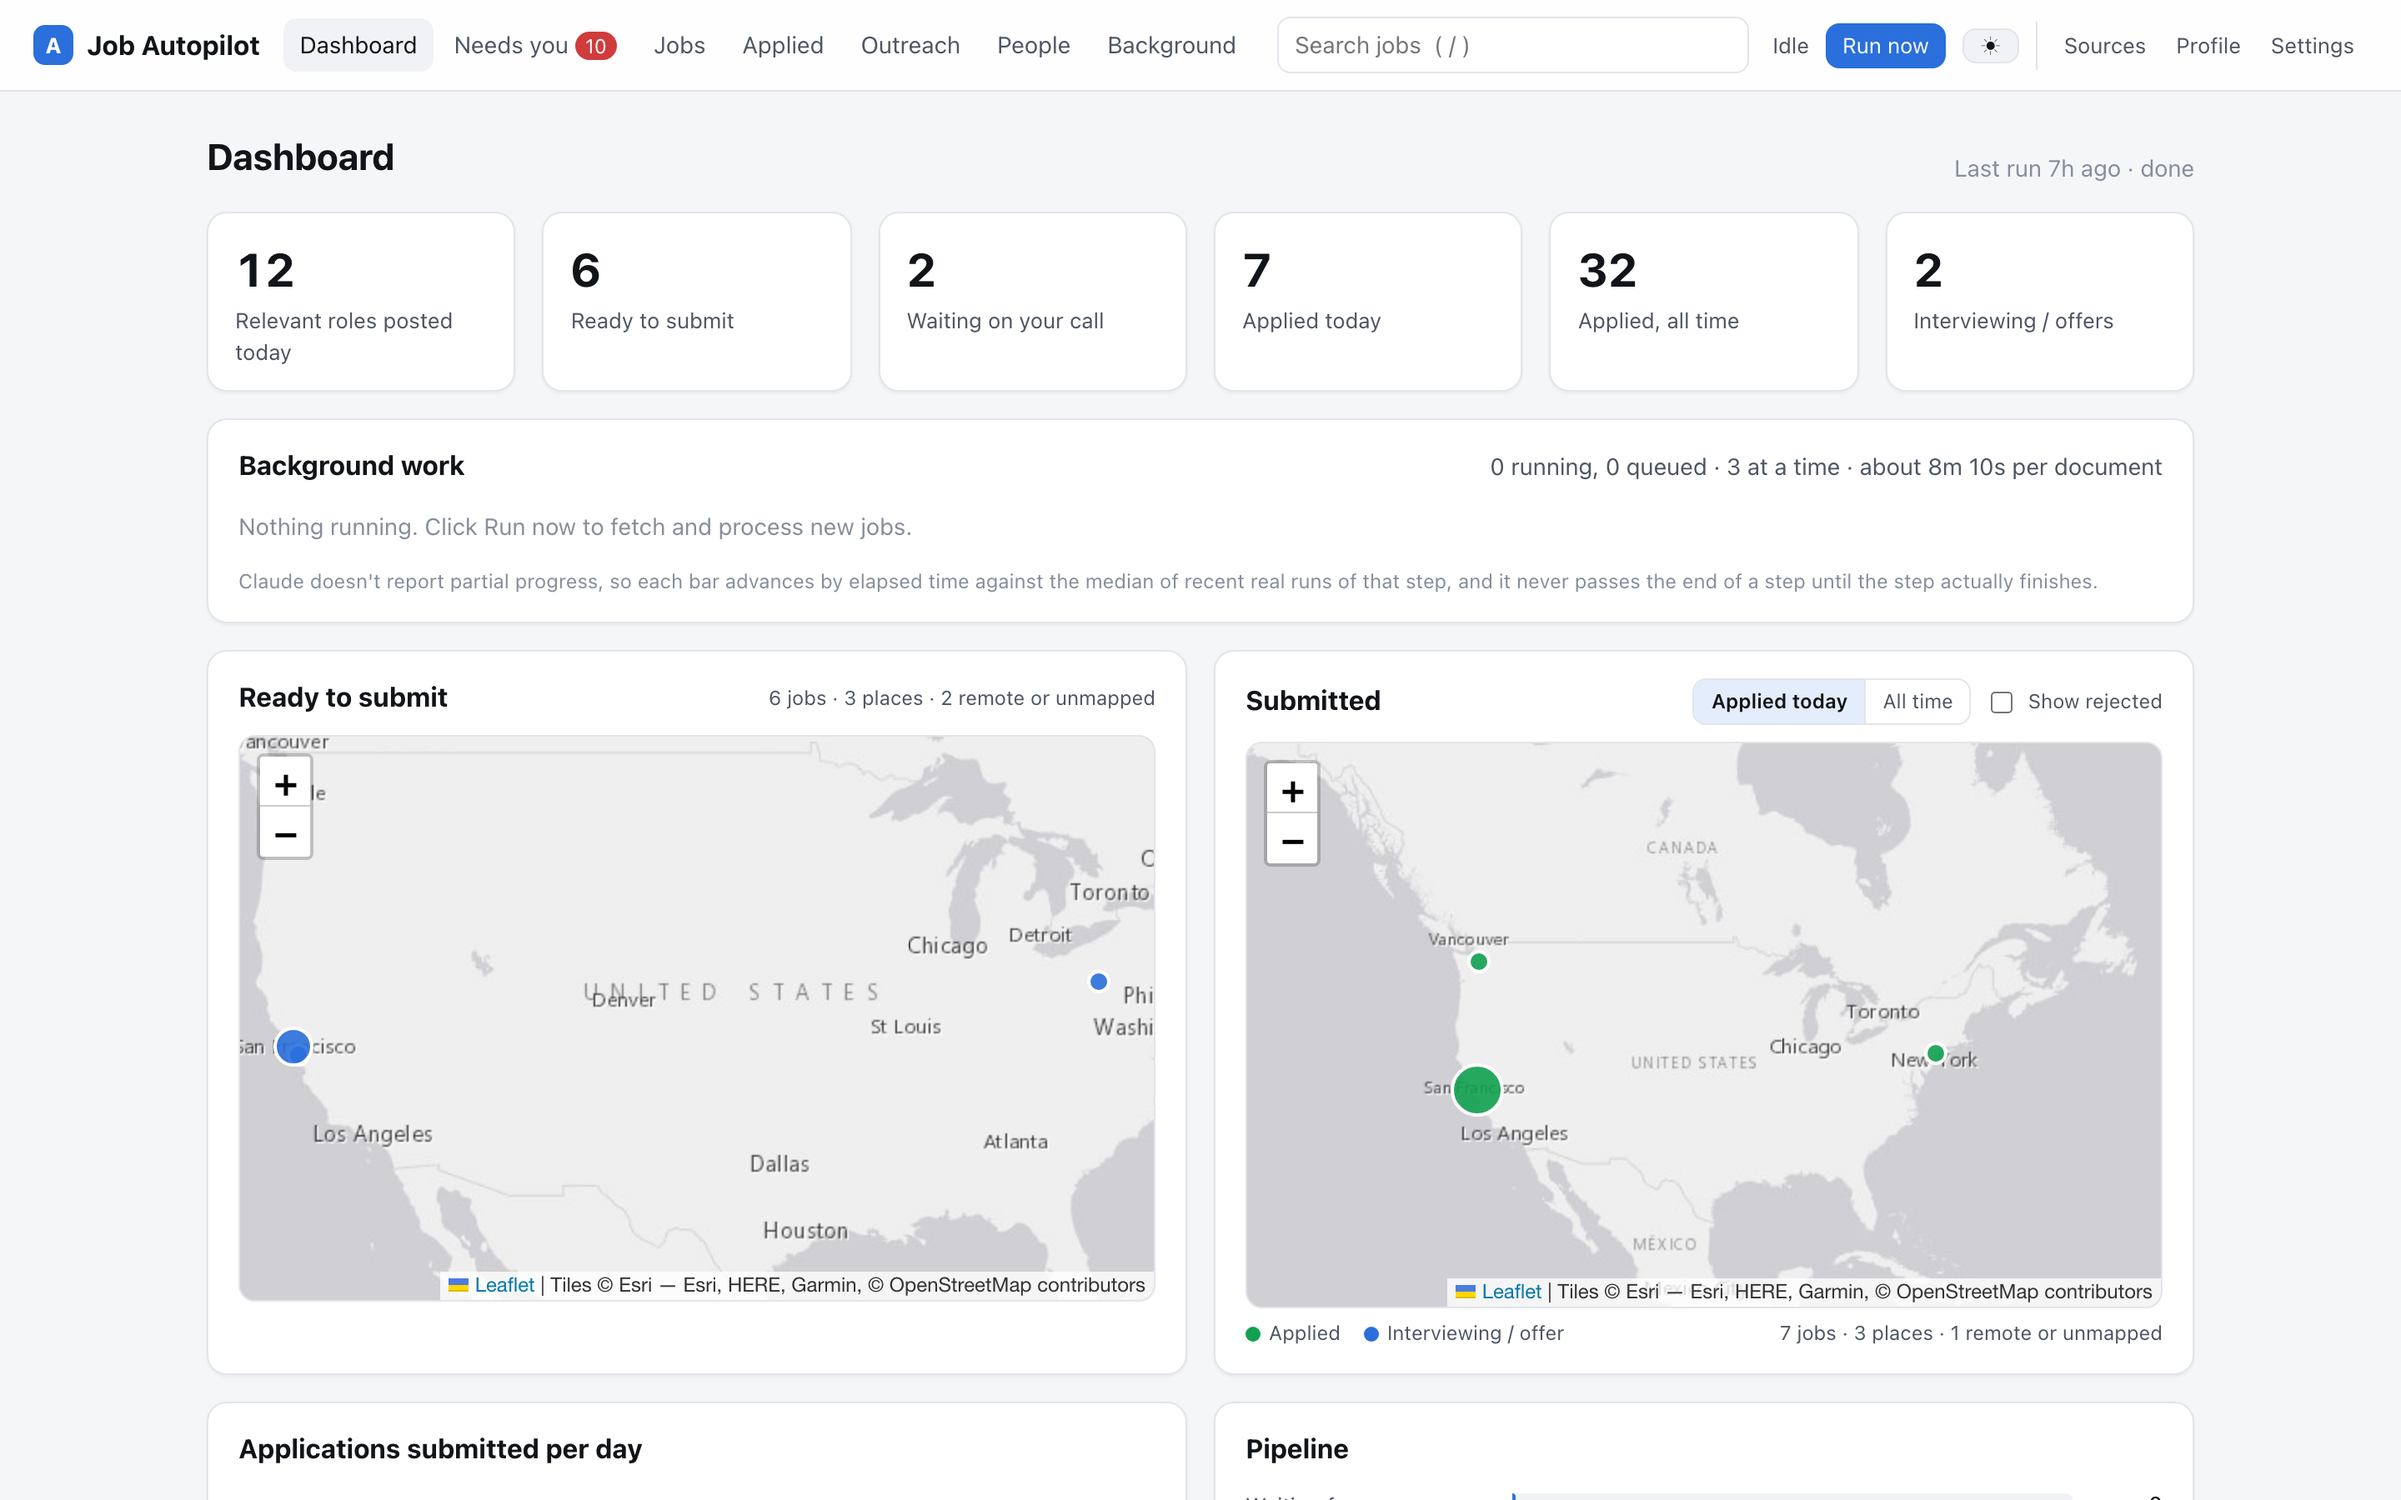
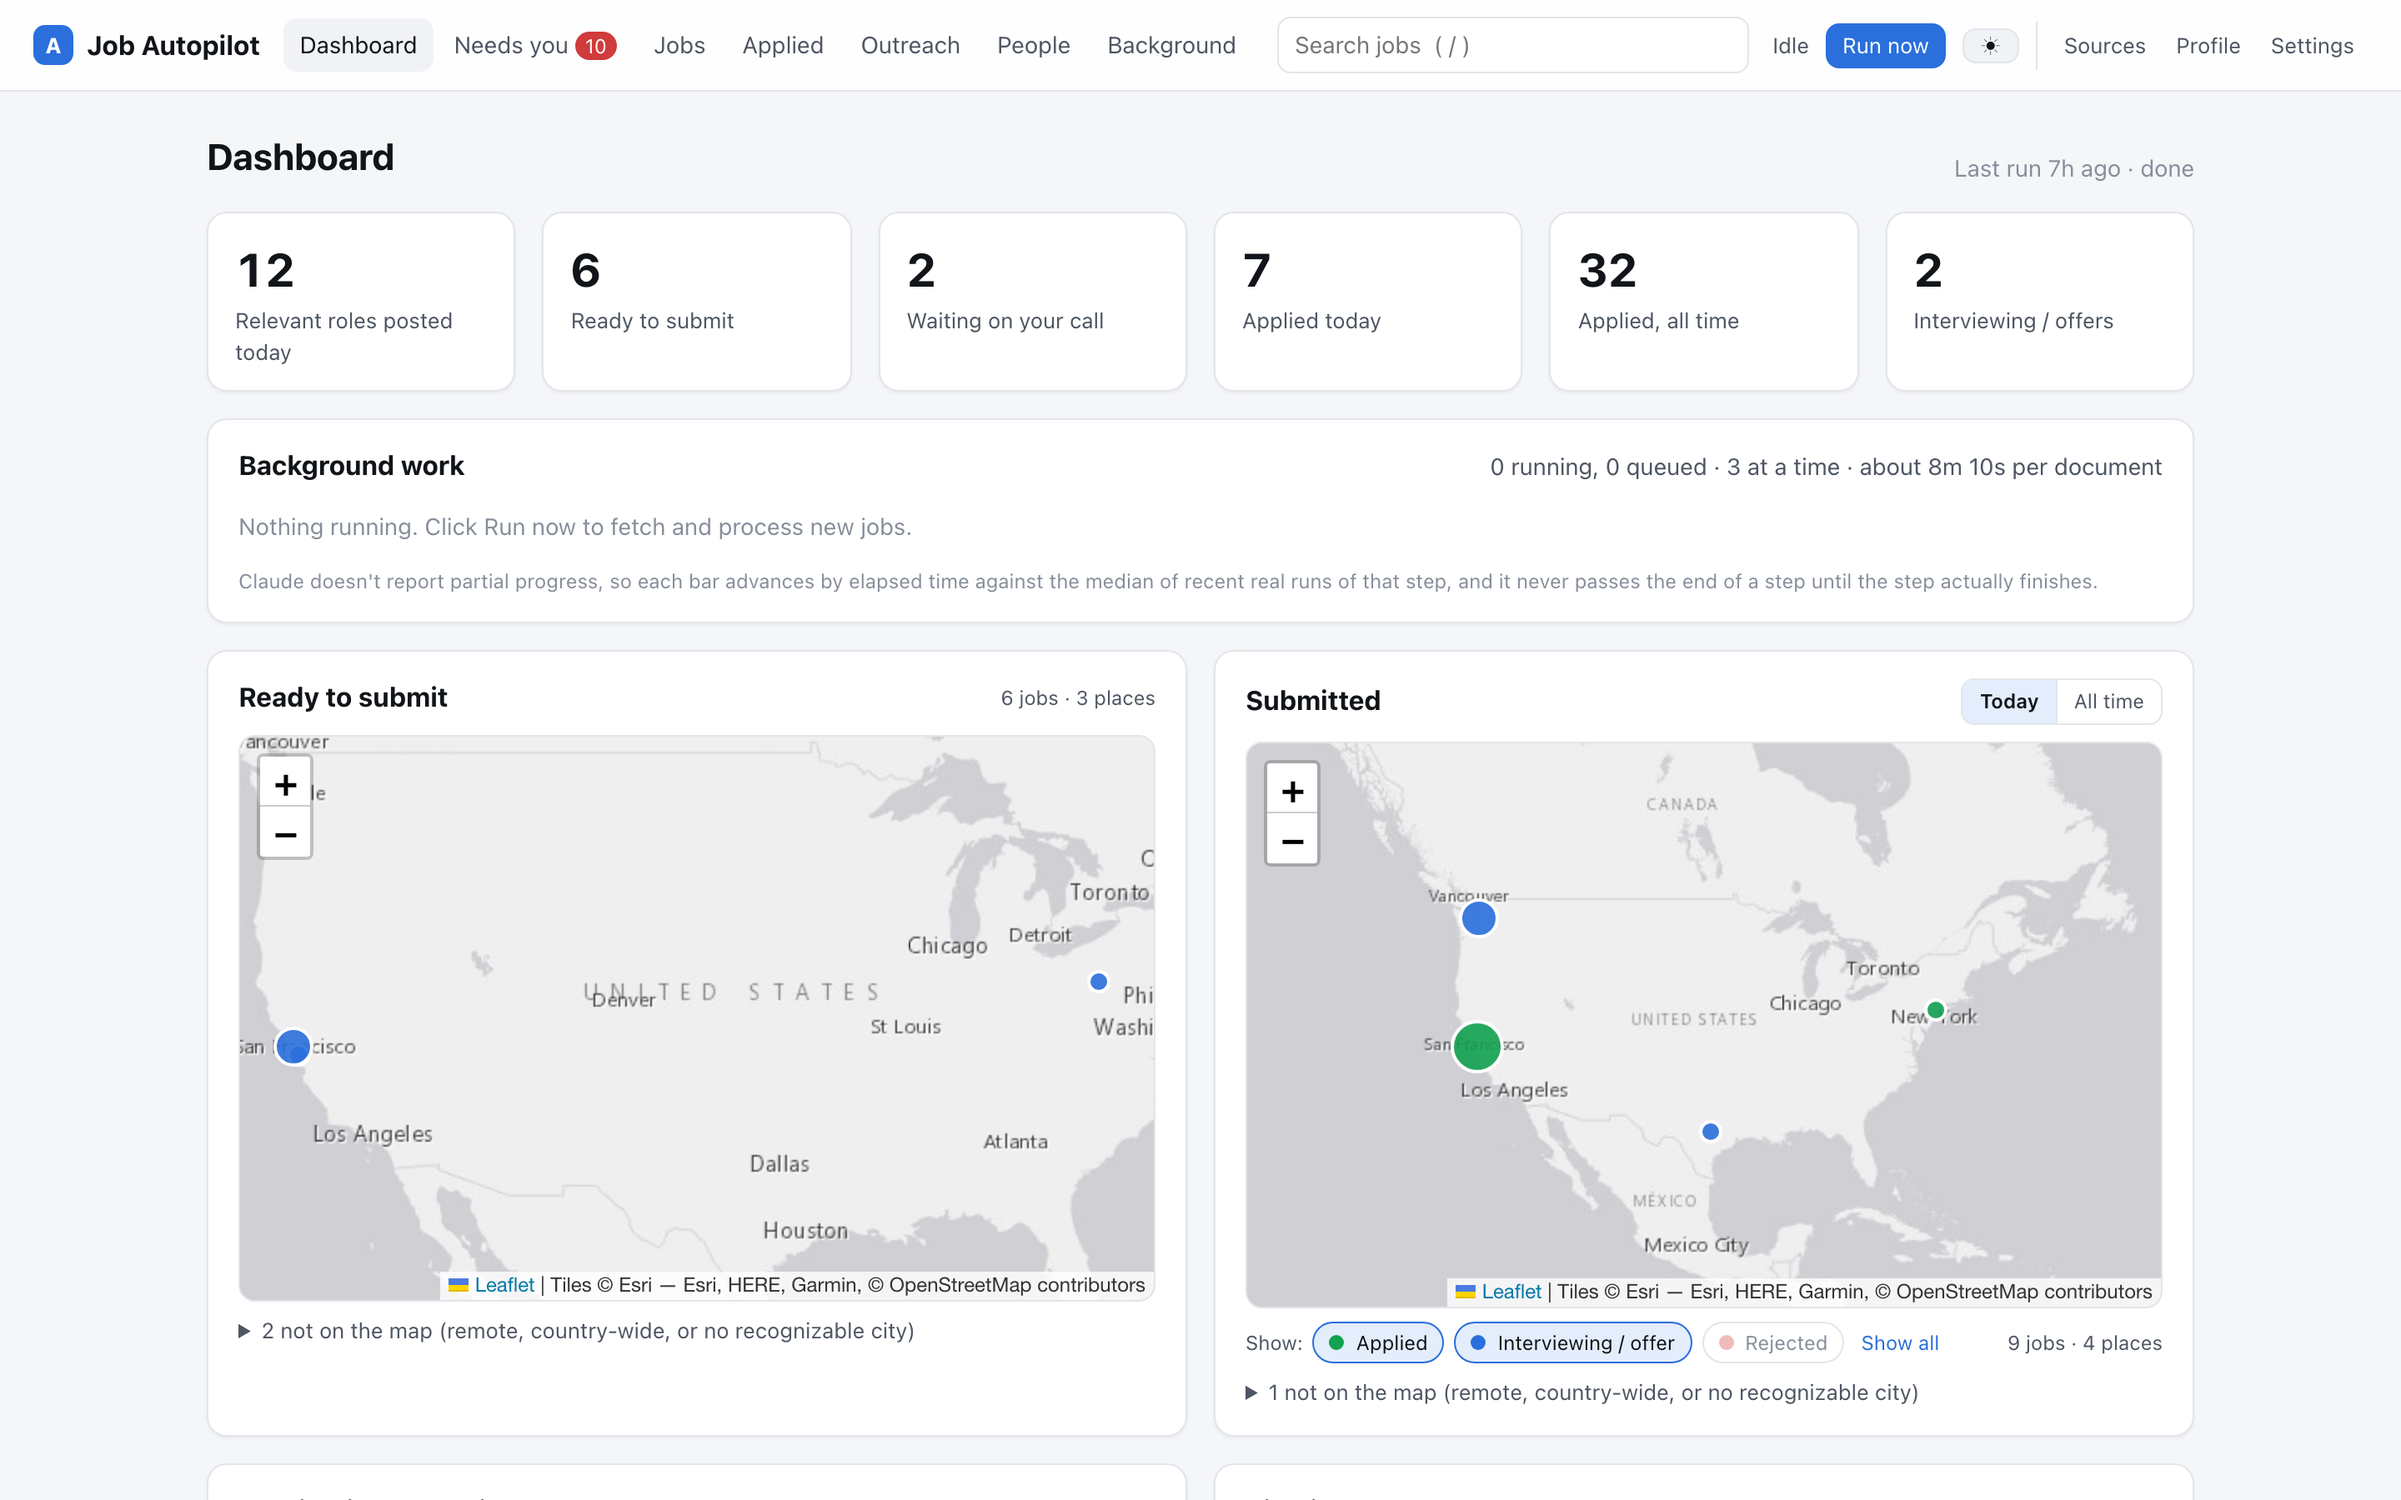
Update README, project report, and screenshots for the new map filters
- README: Today / All time switch, status chips, company-location fallback, unpinned list
- Project report: maps section rewritten; numbers refreshed to five days of use
- Screenshots retaken from fresh demo data

diff --git a/PROJECT_REPORT.md b/PROJECT_REPORT.md
@@ -7,7 +7,7 @@ including overnight with the laptop lid closed, so the candidate's time goes onl
 |---|---|
 | **Type** | Personal tool, built end to end (backend, LLM integration, PDF rendering, browser extension, scheduling) |
 | **Stack** | Python, Flask, SQLite, Claude (Claude Code CLI or Anthropic API, with web search), reportlab, Leaflet maps, Chrome extension (MV3), Playwright, macOS launchd/pmset |
-| **Size** | About 7,800 lines across the app, extension, and templates · 50 automated tests |
+| **Size** | About 8,000 lines across the app, extension, and templates · 57 automated tests |
 | **Status** | In daily use since October 2026 |
 
 ---
@@ -68,31 +68,33 @@ ready for the best matches, and a **Needs you** inbox with only these items:
 
 The dashboard opens with today's numbers (**applied today**, ready to submit, waiting on your call) and **two
 maps**: one pins every job that's ready to submit, and the other pins submitted applications. The second map
-can be toggled between today and all time, with a filter that shows rejected applications in red. One
-glance shows where the search is concentrated and where the open opportunities are.
+switches between **Today** (applied, moved forward, or rejected today) and **All time**, and three toggle chips,
+**Applied**, **Interviewing / offer**, and **Rejected**, show any mix, such as only rejections or only active
+applications. Jobs that can't be pinned (remote, country-wide) are listed under the map, never dropped. One
+glance shows where the search is concentrated, where it's working, and where the open opportunities are.
 
 ![Application maps](docs/screenshots/maps.png)
 
 ## 3. Time and mental energy saved
 
-These figures come from the app's own database and timing logs over its first four days of use
-(October 11–14, 2026).
+These figures come from the app's own database and timing logs over its first five days of use
+(October 11–15, 2026).
 
 | Stage | Volume | What it would take by hand | What it takes now |
 |---|---|---|---|
 | Postings swept per run | ~160,000 across ~4,100 boards | Not feasible manually | ~4 minutes, unattended |
-| Rule-filtered jobs stored for review | 605 | ~1–2 min each to skim and reject | 0 minutes |
-| Jobs screened in depth by Claude | 414 | ~5 min each to read ~600 words and check fit and visa (~35 hours) | ~22 s each, unattended |
-| Rejected with a written reason | 265 of 414 (64%) | The same reading, then the same "no" | 0 minutes; the reason is one click away |
-| Tailored resume and cover-letter packages | 89 | ~45–60 min each (~67–89 hours) | ~4–5 min each, unattended, plus a few minutes of review |
-| Jobs dropped for listed pay under $100K | 27 | Finding the pay line in each description | 0 minutes |
-| Companies with unknown sponsorship checked online | 39 | ~5–10 min each searching H-1B disclosure sites | ~17 s each, cached for 90 days |
-| Applications submitted | 45 | Retyping the same answers into every portal | One autofill click, then Submit |
+| Rule-filtered jobs stored for review | 645 | ~1–2 min each to skim and reject | 0 minutes |
+| Jobs screened in depth by Claude | 457 | ~5 min each to read ~600 words and check fit and visa (~38 hours) | ~22 s each, unattended |
+| Rejected with a written reason | 300 of 457 (66%) | The same reading, then the same "no" | 0 minutes; the reason is one click away |
+| Tailored resume and cover-letter packages | 92 | ~45–60 min each (~69–92 hours) | ~4–5 min each, unattended, plus a few minutes of review |
+| Jobs dropped for listed pay under $100K | 28 | Finding the pay line in each description | 0 minutes |
+| Companies with unknown sponsorship checked online | 47 | ~5–10 min each searching H-1B disclosure sites | ~17 s each, cached for 90 days |
+| Applications submitted | 75 | Retyping the same answers into every portal | One autofill click, then Submit |
 
 *Manual times are conservative assumptions, not measurements. The automated times are measured medians from the app's
 timing table (screen 21.8 s; document draft 252 s plus 40 s per revision round; PDF render 2.1 s; sponsor lookup about 17 s).*
 
-**Estimated savings in the first four days: over 100 hours of screening and drafting.**
+**Estimated savings in the first five days: over 100 hours of screening and drafting.**
 
 The bigger gain is **mental energy**. About two out of three screened jobs are rejected, and the candidate never
 reads them. Every rejection still has its reason on record ("requires 5+ years", "JD says it will not sponsor",
@@ -162,15 +164,15 @@ applied to within hours of going live, while applicant counts are still low.
   attestations and CAPTCHAs, and LinkedIn prohibits automation. Sites behind a login or bot protection
   (Indeed, Handshake, LinkedIn) are not scraped. Only public APIs and public data are used.
 
-## 6. Results so far (first four days)
+## 6. Results so far (first five days)
 
-- **1,019** relevant postings tracked, **414** screened by Claude, **89** tailored document packages, **45**
-  applications submitted, **32** ready to submit
+- **1,102** relevant postings tracked, **457** screened by Claude, **92** tailored document packages, **75**
+  applications submitted, and the first application already **moved forward to interviews**
 - **~4,100** company boards and **~160,000** postings swept per run in about 4 minutes
-- **42,984** USCIS sponsor records loaded, **180** sponsors learned from feeds and screens, and **39** companies
+- **42,984** USCIS sponsor records loaded, **183** sponsors learned from feeds and screens, and **47** companies
   verified online
-- **56** job locations geocoded and pinned on the dashboard maps
-- **50** automated tests, including Chromium-driven form-fill tests and regression tests for real failures:
+- **55** job locations geocoded and pinned on the dashboard maps
+- **57** automated tests, including Chromium-driven form-fill tests and regression tests for real failures:
   sponsorship-refusal wording, pay parsing, and PDF word-spacing leaks
 
 ## 7. Lessons learned

diff --git a/README.md b/README.md
@@ -56,8 +56,10 @@ Everything runs on your own machine at `http://127.0.0.1:5055`. Nothing is hoste
   applications chart, a pipeline funnel, live per-job progress bars with an honest "not started / running /
   paused" status, server-side pagination and search everywhere, and dark, light, and system themes.
 - **Application maps.** One map pins every job ready to submit. A second map pins submitted applications,
-  with **Applied today / All time** toggles and a **Show rejected** filter. Locations are geocoded once
-  through OpenStreetMap and cached; clicking a pin lists its jobs.
+  with a **Today / All time** switch (today = applied, moved forward, or rejected today) and three toggle chips,
+  **Applied**, **Interviewing / offer**, and **Rejected**, to show any mix (double-click a chip for only that
+  status). Locations are geocoded once through OpenStreetMap and cached. Building or street names fall back to
+  the company's location, and remote or country-wide jobs are listed under the map. Clicking a pin lists its jobs.
 
 ## How it works
 
@@ -80,11 +82,12 @@ Everything runs on your own machine at `http://127.0.0.1:5055`. Nothing is hoste
 | Browser | Chrome extension (MV3, shadow-DOM side panel), Playwright for the optional in-app autofill and tests |
 | Scheduling | macOS launchd (user agents plus a root LaunchDaemon for `pmset` wake) |
 | Maps | Leaflet with Esri gray canvas tiles (light and dark), OpenStreetMap Nominatim geocoding (cached) |
-| Tests | pytest (50 tests, including Chromium-driven form-fill tests) |
+| Tests | pytest (57 tests, including Chromium-driven form-fill tests) |
 
 ## Screenshots
 
-**Maps**: jobs ready to submit, and submitted applications (here: all time, rejected shown in red).
+**Maps**: jobs ready to submit, and submitted applications (here: all time, with Applied, Interviewing / offer,
+and Rejected all switched on; rejected pins are red).
 
 ![Application maps](docs/screenshots/maps.png)
 
